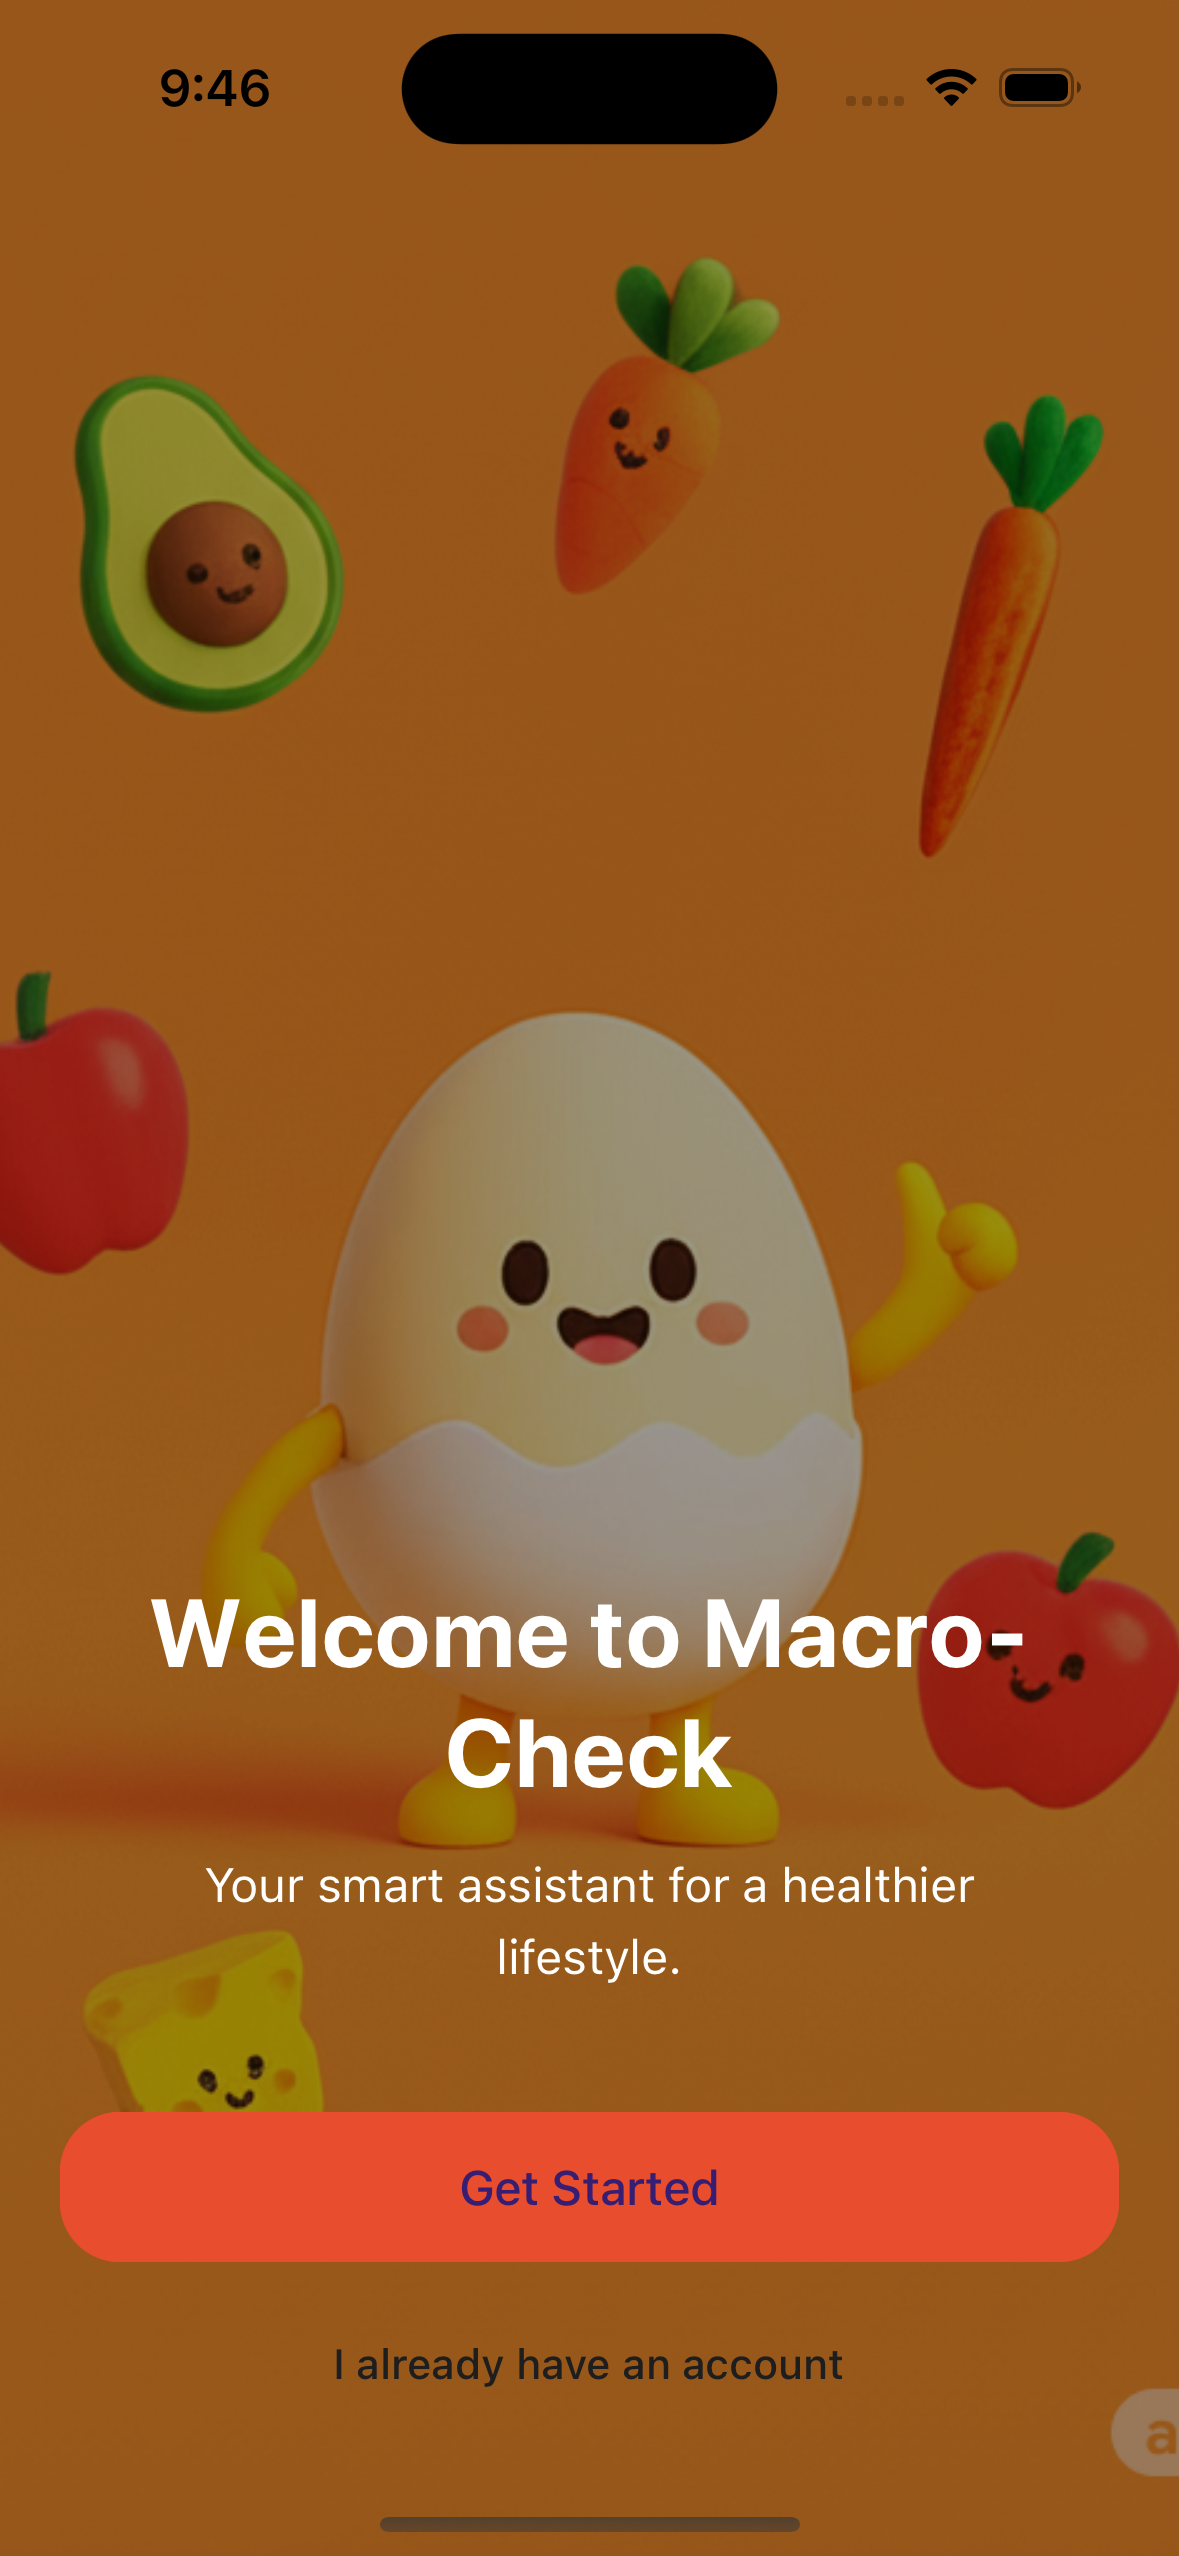
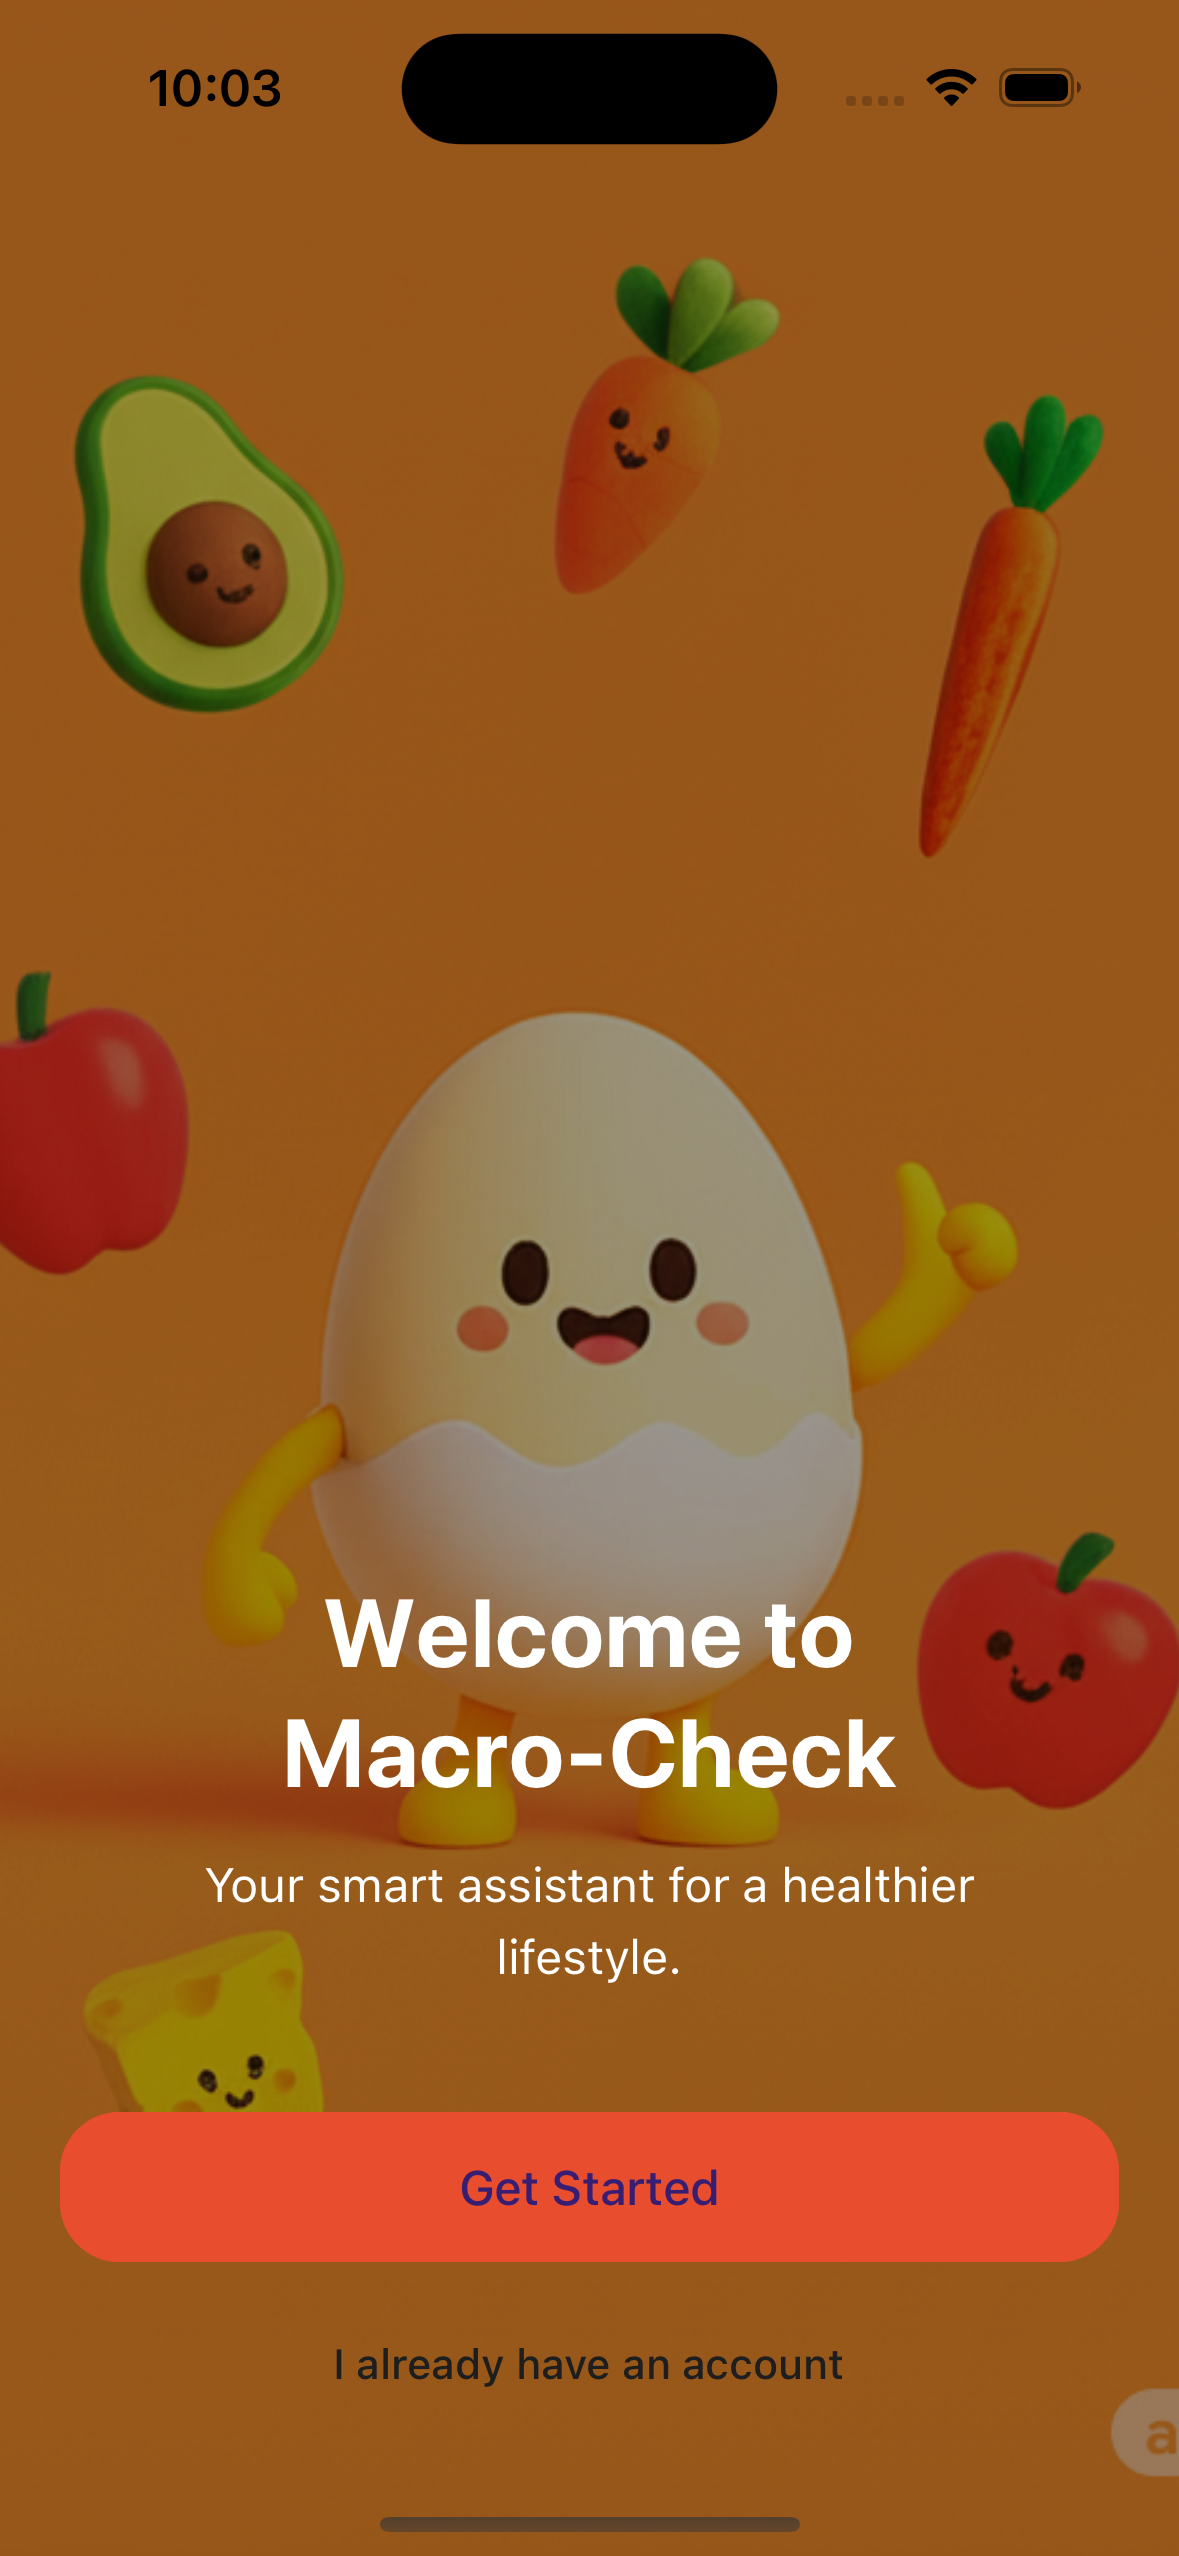
readme update

Changed region(s): [[0.1221, 0.6182, 0.855, 0.7109], [0.1221, 0.0309, 0.2443, 0.0618]]

diff --git a/macro-check-client/src/screens/OnboardingScreen.tsx b/macro-check-client/src/screens/OnboardingScreen.tsx
@@ -24,9 +24,10 @@ export default function OnboardingScreen() {
       <View style={styles.overlay}>
         
         <View style={styles.contentContainer}>
-          <Text variant="headlineLarge" style={[styles.title, { color: '#FFFFFF' }]}>
-            Welcome to Macro-Check
-          </Text>
+            <Text variant="headlineLarge" style={[styles.title, { color: '#FFFFFF' }]}>
+            Welcome to{'\n'}
+            Macro-Check
+            </Text>
           <Text variant="bodyLarge" style={[styles.subtitle, { color: '#FFFFFF' }]}>
             Your smart assistant for a healthier lifestyle.
           </Text>
